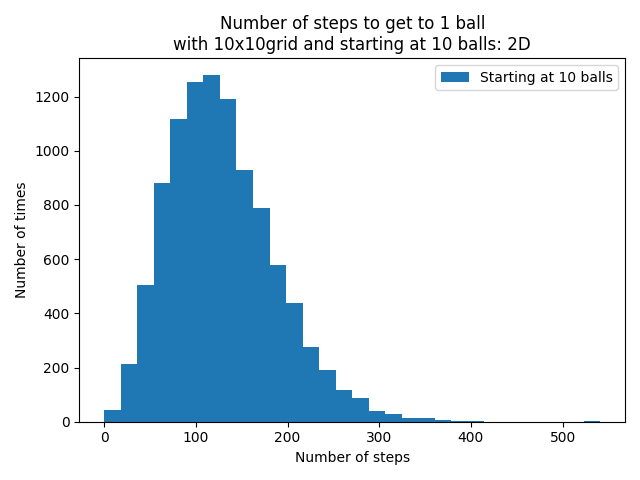
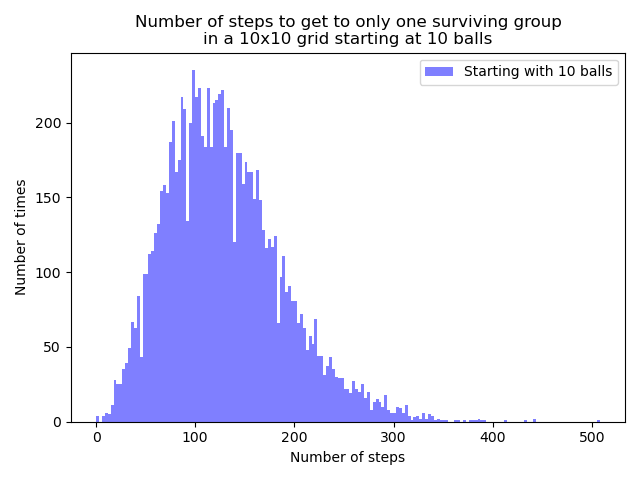
fler saker

diff --git a/random-walker-2D-rock-papper-sizors.py b/random-walker-2D-rock-papper-sizors.py
@@ -34,7 +34,7 @@ while p < number_of_balls:
 
 where_points_rock=[]
 where_points_paper=[]
-where_points_sizors=[]
+where_points_scissors=[]
 
 for i in range(len(x1)):
     for j in range(len(x1[i])):
@@ -45,15 +45,15 @@ for i in range(len(x1)):
             elif randomvar < 2/3 and randomvar > 1/3:
                 where_points_paper.append([i,j])
             else:
-                where_points_sizors.append([i,j])
+                where_points_scissors.append([i,j])
             
             
 print("rock")
 print(where_points_rock)
 print("paper")
 print(where_points_paper)
-print("sizors")
-print(where_points_sizors)
+print("scissors")
+print(where_points_scissors)
 
 
 resulting_points2=[]
@@ -124,14 +124,14 @@ def moving_and_shecking(new_position,you,beatyou,youbeat,direction,size):
 
 newrock=[]
 newpaper=[]
-newsizors=[]
-def run_this_code(where_points_rock,where_points_paper,where_points_sizors,all_points,limit):
+newscissors=[]
+def run_this_code(where_points_rock,where_points_paper,where_points_scissors,all_points,limit):
 
     #shoose to move left or right
     number_of_steps=0
-    while number_of_steps < limit and len(where_points_rock)+len(where_points_paper)+len(where_points_sizors) > 0:
+    while len(where_points_rock) > 0 and len(where_points_paper) > 0 or len(where_points_scissors) > 0 and len(where_points_paper) > 0 or len(where_points_rock) > 0 and len(where_points_scissors) > 0 or len(where_points_scissors) > 0 and len(where_points_paper) > 0:
         size=len(all_points)
-        total=len(where_points_rock)+len(where_points_paper)+len(where_points_sizors)
+        total=len(where_points_rock)+len(where_points_paper)+len(where_points_scissors)
         randomvar=np.random.random()
 
         #rock
@@ -140,7 +140,7 @@ def run_this_code(where_points_rock,where_points_paper,where_points_sizors,all_p
             
             point,direction=choose_point_and_direction(where_points_rock)
             newpoint=[point[0]+direction[0],point[1]+direction[1]]
-            result =(moving_and_shecking(newpoint,where_points_rock,where_points_paper,where_points_sizors,direction,size))
+            result =(moving_and_shecking(newpoint,where_points_rock,where_points_paper,where_points_scissors,direction,size))
             if result=="delete":
                 where_points_rock.remove(point)
             elif result=="dont move":
@@ -154,9 +154,9 @@ def run_this_code(where_points_rock,where_points_paper,where_points_sizors,all_p
             elif result=="win":
                 try:
                     where_points_rock.append(newpoint)
-                    where_points_sizors.remove(newpoint)
+                    where_points_scissors.remove(newpoint)
                 except:
-                    raise Exception("win",newpoint,where_points_sizors)
+                    raise Exception("win",newpoint,where_points_scissors)
             elif result=="move":
                 try:
                     where_points_rock.remove(point)
@@ -180,7 +180,7 @@ def run_this_code(where_points_rock,where_points_paper,where_points_sizors,all_p
             point,direction=choose_point_and_direction(where_points_paper)
             #print(point)
             newpoint=[point[0]+direction[0],point[1]+direction[1]]
-            result =(moving_and_shecking(newpoint,where_points_paper,where_points_sizors,where_points_rock,direction,size))
+            result =(moving_and_shecking(newpoint,where_points_paper,where_points_scissors,where_points_rock,direction,size))
             if result=="delete":
                 where_points_paper.remove(point)
             elif result=="dont move":
@@ -188,9 +188,9 @@ def run_this_code(where_points_rock,where_points_paper,where_points_sizors,all_p
             elif result=="die":
                 try:
                     where_points_paper.remove(point)
-                    where_points_sizors.append(newpoint)
+                    where_points_scissors.append(newpoint)
                 except:
-                    raise Exception("die",newpoint,where_points_sizors)
+                    raise Exception("die",newpoint,where_points_scissors)
             elif result=="win":
                 try:
                     where_points_paper.append(newpoint)
@@ -211,21 +211,21 @@ def run_this_code(where_points_rock,where_points_paper,where_points_sizors,all_p
 
 
 
-        #sizors
+        #scissors
         else:
-            #print("sizors")
+            #print("scissors")
 
-            point,direction=choose_point_and_direction(where_points_sizors)
+            point,direction=choose_point_and_direction(where_points_scissors)
             #print(point)
             newpoint=[point[0]+direction[0],point[1]+direction[1]]
-            result=(moving_and_shecking(newpoint,where_points_sizors,where_points_rock,where_points_paper,direction,size))
+            result=(moving_and_shecking(newpoint,where_points_scissors,where_points_rock,where_points_paper,direction,size))
             if result=="delete":
-                where_points_sizors.remove(point)
+                where_points_scissors.remove(point)
             elif result=="dont move":
                 pass
             elif result=="die":
                 try:
-                    where_points_sizors.remove(point)
+                    where_points_scissors.remove(point)
                     where_points_rock.append(newpoint)
                 except:
                     raise Exception("die",newpoint,where_points_rock)
@@ -233,30 +233,30 @@ def run_this_code(where_points_rock,where_points_paper,where_points_sizors,all_p
             elif result=="win":
                 try:
 
-                    where_points_sizors.append(newpoint)
+                    where_points_scissors.append(newpoint)
                     where_points_paper.remove(newpoint)
                 except:
                     raise Exception("win",newpoint,where_points_paper)
 
             elif result=="move":
                 try:
-                    where_points_sizors.remove(point)
-                    where_points_sizors.append(newpoint)
+                    where_points_scissors.remove(point)
+                    where_points_scissors.append(newpoint)
                 except:
-                    raise Exception("move",newpoint,where_points_sizors)
+                    raise Exception("move",newpoint,where_points_scissors)
         
         number_of_steps+=1
 
         
         newrock.append(str(where_points_rock[:]))
         newpaper.append(str(where_points_paper[:]))
-        newsizors.append(str(where_points_sizors[:]))
+        newscissors.append(str(where_points_scissors[:]))
     return(number_of_steps)
 
 
 """
 
-run_this_code(where_points_rock,where_points_paper,where_points_sizors,x1)
+run_this_code(where_points_rock,where_points_paper,where_points_scissors,x1)
 """
 def str_to_list(resulting_points):
     second_resulting_points=[]
@@ -281,7 +281,7 @@ def str_to_list(resulting_points):
 """
 newrock=str_to_list(newrock)
 newpaper=str_to_list(newpaper)
-newsizors=str_to_list(newsizors)
+newscissors=str_to_list(newscissors)
 
 import matplotlib.animation as animation
 import matplotlib.pyplot as plt
@@ -289,7 +289,7 @@ import numpy as np
 
 fig, ax = plt.subplots()
 
-ax.set_title('Rock/Paper/Sizors: 2D')
+ax.set_title('Rock/Paper/scissors: 2D')
 ax.set_xlabel('Position in x')
 ax.set_ylabel('Position in y')
 #Set size of plot
@@ -308,7 +308,7 @@ plt.plot([size+0.5,-0.5],[-0.5,-0.5],color='r', linestyle='-', linewidth=1)
 # set up empty lines to be updates later on
 rock, = ax.plot([],[],'b*',label="Rock")
 paper, = ax.plot([],[],'r+',label="Paper")
-sizors, = ax.plot([],[],'go',label="Sizors")
+scissors, = ax.plot([],[],'go',label="scissors")
 
 def gen1():
     i = 0
@@ -330,9 +330,9 @@ def run1(c):
     y_p=[o[1] for o in newpaper[c]]
     paper.set_data(x_p,y_p)
 
-    x_s=[o[0] for o in newsizors[c]]
-    y_s=[o[1] for o in newsizors[c]]
-    sizors.set_data(x_s,y_s)
+    x_s=[o[0] for o in newscissors[c]]
+    y_s=[o[1] for o in newscissors[c]]
+    scissors.set_data(x_s,y_s)
 
 
     #l2.set_data(what_happened[c][0],what_happened[c][1])
@@ -344,17 +344,17 @@ ani1 = animation.FuncAnimation(fig,run1,gen1,interval=400,blit=False,repeat=Fals
 plt.show()
 #save the ani1 and ani2 as a gif
 
-ani1.save('plots/rock-paper_sizors.gif', fps=3,writer='imagemagick')
+ani1.save('plots/rock-paper_scissors.gif', fps=3,writer='imagemagick')
 """
 
 plot_number_of_steps_rock=[]
 plot_number_of_steps_paper=[]
-plot_number_of_steps_sizors=[]
+plot_number_of_steps_scissors=[]
 numberofsteps=10000
 for n in tqdm(range(numberofsteps)):
     #make an array of 1000 zeros
     size=10
-    number_of_balls=40
+    number_of_balls=10
     #make 2d array
     x1 = np.zeros((size,size))
 
@@ -369,7 +369,7 @@ for n in tqdm(range(numberofsteps)):
 
     where_points_rock=[]
     where_points_paper=[]
-    where_points_sizors=[]
+    where_points_scissors=[]
 
     for i in range(len(x1)):
         for j in range(len(x1[i])):
@@ -380,41 +380,31 @@ for n in tqdm(range(numberofsteps)):
                 elif randomvar < 2/3 and randomvar > 1/3:
                     where_points_paper.append([i,j])
                 else:
-                    where_points_sizors.append([i,j])
+                    where_points_scissors.append([i,j])
     newrock=[]
     newpaper=[]
-    newsizors=[]     
+    newscissors=[]     
     newrock=str_to_list(newrock)
     newpaper=str_to_list(newpaper)
-    newsizors=str_to_list(newsizors)
+    newscissors=str_to_list(newscissors)
 
 
     limit=400
-    number_of_steps=run_this_code(where_points_rock,where_points_paper,where_points_sizors,x1,limit)
+    number_of_steps=run_this_code(where_points_rock,where_points_paper,where_points_scissors,x1,limit)
+    plot_number_of_steps_rock.append(number_of_steps)
     
-    plot_number_of_steps_rock.append(len(newrock[-1]))
-    plot_number_of_steps_paper.append(len(newpaper[-1]))
-    plot_number_of_steps_sizors.append(len(newsizors[-1]))
+
     
 
 
 numberofbins=int(len(list(set(plot_number_of_steps_rock)))/2)
-fig, axes = plt.subplots(nrows=1, ncols=3, figsize=(15,5))
-axes[0].hist(plot_number_of_steps_rock,color="r", bins=numberofbins,label="Number of\nrocks left".format(number_of_balls))
-axes[1].hist(plot_number_of_steps_paper,color="b", bins=numberofbins,label="Number of\npapers left".format(number_of_balls))
-axes[2].hist(plot_number_of_steps_sizors,color="g", bins=numberofbins,label="Number of\nsizors left".format(number_of_balls))
-fig.tight_layout()
-
-
-axes[0].legend()
-axes[1].legend()
-axes[2].legend()
-
-fig.supxlabel('Number of steps')
-fig.supylabel('Number of times')
-fig.suptitle('Number of items after {} iterations'.format(limit))
+plt.hist(plot_number_of_steps_rock,bins=numberofbins,color="blue",alpha=0.5,label="Starting with {} balls".format(number_of_balls))
+plt.legend(loc="upper right")
+plt.xlabel('Number of steps')
+plt.ylabel('Number of times')
+plt.title('Number of steps to get to only one surviving group\nin a {}x{} grid starting at {} balls'.format(size,size,number_of_balls))
 #plt.show()
 plt.tight_layout()
-plt.savefig('plots/rock-paper-sizors-after-{}.png'.format(limit))
+plt.savefig('plots/rock-paper-scissors-{}-{}.png'.format(size,number_of_balls))
 
 #"""
